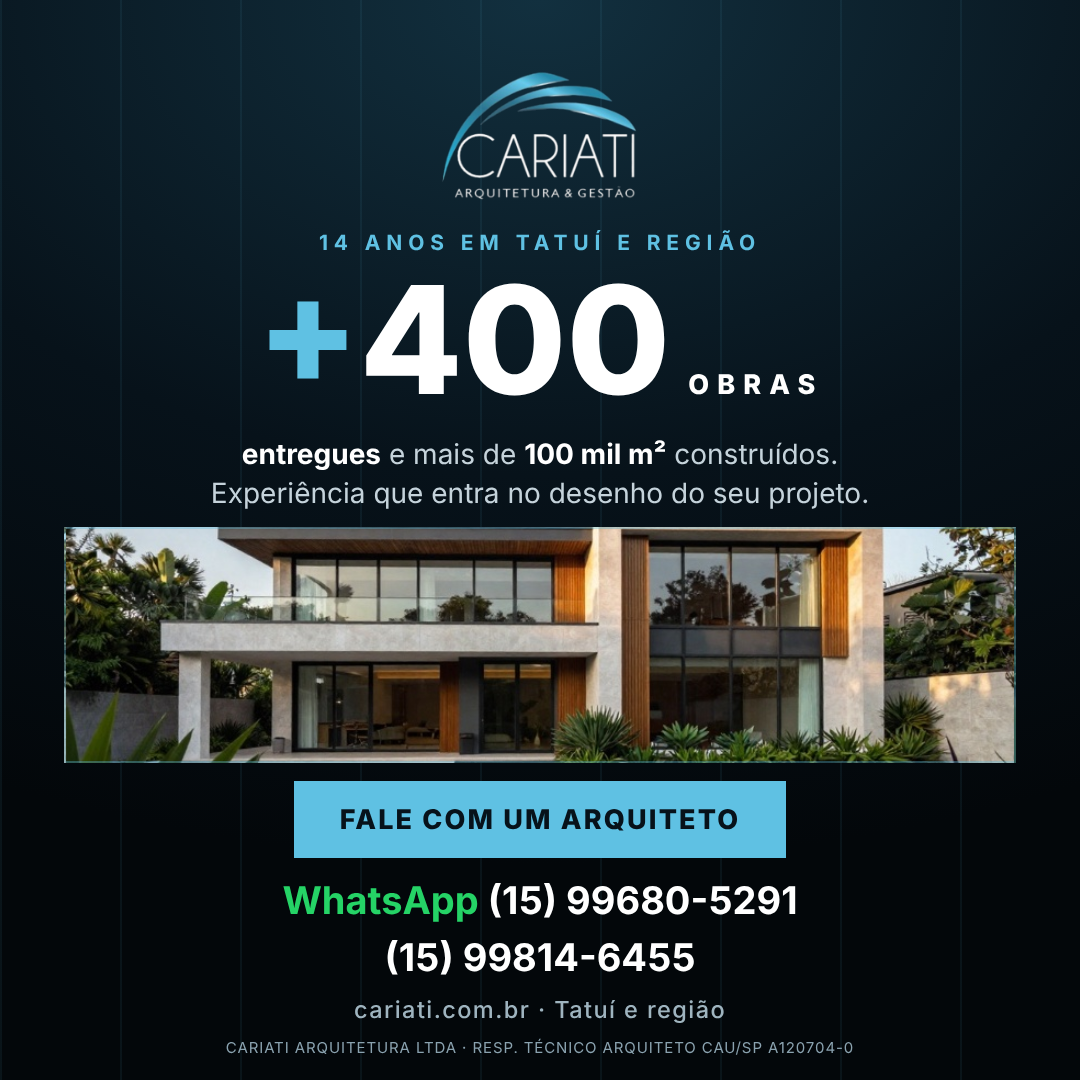
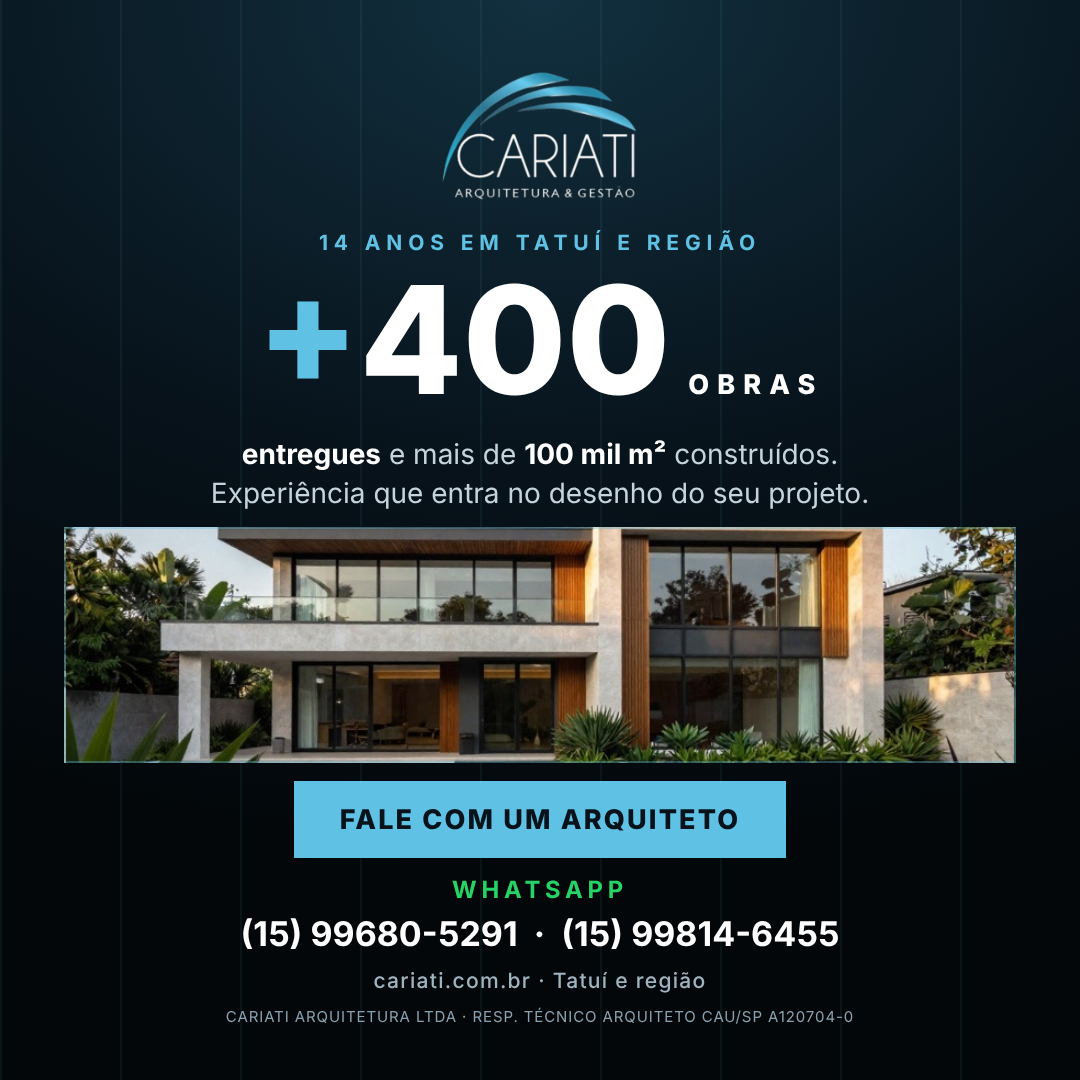
Update flyers: both phone numbers shown as WhatsApp
Claude-Session: https://claude.ai/code/session_012W4cPJrLBDcgKi33Cw4yCm

Changed region(s): [[0.2139, 0.7944, 0.7944, 0.9778]]

diff --git a/flyers_cariati/build.py b/flyers_cariati/build.py
@@ -37,11 +37,11 @@ def page(w,h,body,vars_):
     v=";".join(f"--{k}:{x}" for k,x in vars_.items())
     return f"<html><head><meta charset=utf-8><style>{CSS}</style></head><body><div class=f style='--w:{w}px;--h:{h}px;{v}'>{body}</div></body></html>"
 L='<img class="logo z" src="assets/logo.png">'
-PH='<div class="contact z"><span class=wa>WhatsApp</span> (15) 99680-5291<br>(15) 99814-6455<small>cariati.com.br · Tatuí e região</small></div>'
+PH='<div class="contact z"><span class=wa style="font-size:.7em;letter-spacing:.2em;text-transform:uppercase">WhatsApp</span><br>(15) 99680-5291 &nbsp;·&nbsp; (15) 99814-6455<small>cariati.com.br · Tatuí e região</small></div>'
 FOOT='<div class="foot z">CARIATI ARQUITETURA LTDA · RESP. TÉCNICO ARQUITETO CAU/SP A120704-0</div>'
 V=dict(w=1080,h=1920)
-VV=dict(p="90px",lh="190px",e="26px",h1="74px",s="36px",g="36px",c="34px",cp="30px 60px",t="48px",fs="19px",ls="42px",lg="30px",big="260px",g3="22px",cd="26px",cl="30px",ch="38px",cp2="27px")
-SQ=dict(p="64px",lh="140px",e="21px",h1="64px",s="28px",g="26px",c="27px",cp="22px 46px",t="38px",fs="15px",ls="35px",lg="24px",big="150px",g3="16px",cd="22px",cl="26px",ch="32px",cp2="23px")
+VV=dict(p="90px",lh="190px",e="26px",h1="74px",s="36px",g="36px",c="34px",cp="30px 60px",t="44px",fs="19px",ls="42px",lg="30px",big="260px",g3="22px",cd="26px",cl="30px",ch="38px",cp2="27px")
+SQ=dict(p="64px",lh="140px",e="21px",h1="64px",s="28px",g="26px",c="27px",cp="22px 46px",t="34px",fs="15px",ls="35px",lg="24px",big="150px",g3="16px",cd="22px",cl="26px",ch="32px",cp2="23px")
 def photo(img,h,pos="center"):
     return f"<div class='photo z' style=\"flex:none;height:{h}px;background-image:url('assets/{img}');background-position:{pos}\"></div>"
 def sp(n): return f"<div style='height:{n}px;flex:none'></div>"
